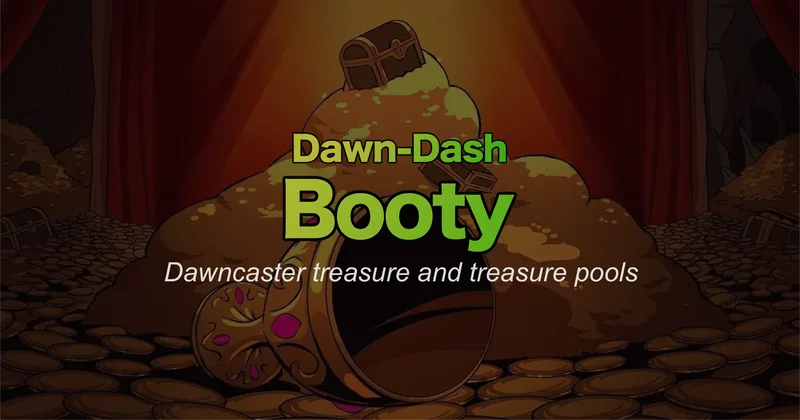
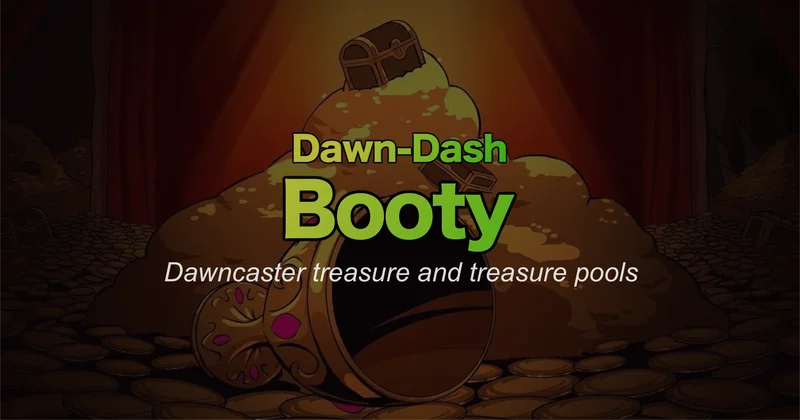
Script for generating landing-images. Also updated all images with vignette

diff --git a/scripts/generate-landing-images.js b/scripts/generate-landing-images.js
@@ -1,0 +1,148 @@
+// @ts-check
+/**
+ * Regenerates the landing-page thumbnails in `public/` from the OG images.
+ *
+ * Usage:
+ *   npm run generate-landing-images                 # regenerate all, overwriting in place
+ *   npm run generate-landing-images -- --dry-run    # report what would change, write nothing
+ *   npm run generate-landing-images -- cardex booty # only these tools
+ *   npm run generate-landing-images -- --quality 90
+ *
+ * Each `public/og-image-<tool>.png` (2400x1260) becomes `public/landing-<tool>.webp`
+ * (800x420) — the same 21:10 aspect ratio at a third of the size, so the resize is a
+ * clean downscale with no cropping. A source whose aspect ratio differs is reported
+ * and skipped rather than silently letterboxed or cropped off-centre.
+ *
+ * `og-image-dawndash.png` has no landing counterpart on purpose: the landing page shows
+ * the six tools, not itself. It is skipped unless named explicitly on the command line.
+ */
+
+const fs = require('fs')
+const path = require('path')
+
+const PUBLIC_DIR = path.join(__dirname, '../public')
+const TARGET_WIDTH = 800
+const TARGET_HEIGHT = 420
+const DEFAULT_QUALITY = 85
+
+/** The landing page shows the tools, not the site itself, so dawndash gets no thumbnail. */
+const SKIPPED_BY_DEFAULT = ['dawndash']
+
+/** Aspect ratios this far apart are treated as a mismatch rather than rounding noise. */
+const ASPECT_TOLERANCE = 0.01
+
+function loadSharp() {
+  try {
+    return require('sharp')
+  } catch {
+    throw new Error(
+      'sharp is not installed. Run `npm install --save-dev sharp` and try again.\n' +
+        '(It normally ships as a dependency of Next, but that is not something to rely on.)'
+    )
+  }
+}
+
+/** @param {string[]} argv */
+function parseArgs(argv) {
+  const tools = []
+  let dryRun = false
+  let quality = DEFAULT_QUALITY
+
+  for (let i = 0; i < argv.length; i++) {
+    const arg = argv[i]
+
+    if (arg === '--dry-run') dryRun = true
+    else if (arg === '--quality') {
+      quality = Number(argv[++i])
+      if (!Number.isFinite(quality) || quality < 1 || quality > 100) {
+        throw new Error(`--quality expects a number from 1 to 100, got "${argv[i]}"`)
+      }
+    } else if (arg.startsWith('--')) throw new Error(`Unknown flag: ${arg}`)
+    else tools.push(arg)
+  }
+
+  return { tools, dryRun, quality }
+}
+
+/** Every `og-image-<tool>.png` in public/, as tool names. */
+function findSourceTools() {
+  return fs
+    .readdirSync(PUBLIC_DIR)
+    .map((file) => /^og-image-(.+)\.png$/.exec(file))
+    .filter((match) => match !== null)
+    .map((match) => match[1])
+    .sort()
+}
+
+/** @param {number} bytes */
+function formatBytes(bytes) {
+  return `${(bytes / 1024).toFixed(1)}kB`
+}
+
+async function main() {
+  const sharp = loadSharp()
+  const { tools: requested, dryRun, quality } = parseArgs(process.argv.slice(2))
+
+  const available = findSourceTools()
+  const unknown = requested.filter((tool) => !available.includes(tool))
+  if (unknown.length > 0) {
+    throw new Error(
+      `No og-image-<tool>.png for: ${unknown.join(', ')}\nAvailable: ${available.join(', ')}`
+    )
+  }
+
+  const tools =
+    requested.length > 0
+      ? requested
+      : available.filter((tool) => !SKIPPED_BY_DEFAULT.includes(tool))
+
+  console.log(
+    `Generating ${TARGET_WIDTH}x${TARGET_HEIGHT} webp (quality ${quality}) for: ${tools.join(', ')}` +
+      (dryRun ? '  [dry run]' : '')
+  )
+
+  const skipped = []
+  let written = 0
+
+  for (const tool of tools) {
+    const source = path.join(PUBLIC_DIR, `og-image-${tool}.png`)
+    const target = path.join(PUBLIC_DIR, `landing-${tool}.webp`)
+
+    const { width, height } = await sharp(source).metadata()
+    const sourceAspect = width / height
+    const targetAspect = TARGET_WIDTH / TARGET_HEIGHT
+
+    if (Math.abs(sourceAspect - targetAspect) > ASPECT_TOLERANCE) {
+      skipped.push(
+        `${tool}: source is ${width}x${height} (${sourceAspect.toFixed(3)}), ` +
+          `expected ${targetAspect.toFixed(3)} — resize would crop or distort`
+      )
+      continue
+    }
+
+    const before = fs.existsSync(target) ? fs.statSync(target).size : 0
+    const buffer = await sharp(source)
+      .resize(TARGET_WIDTH, TARGET_HEIGHT, { fit: 'fill' })
+      .webp({ quality })
+      .toBuffer()
+
+    if (!dryRun) fs.writeFileSync(target, buffer)
+    written++
+
+    const change =
+      before > 0
+        ? `${formatBytes(before)} -> ${formatBytes(buffer.length)}`
+        : `new, ${formatBytes(buffer.length)}`
+    console.log(`  ${dryRun ? 'would write' : 'wrote'} landing-${tool}.webp  (${change})`)
+  }
+
+  for (const message of skipped) console.warn(`  SKIPPED ${message}`)
+
+  console.log(`\n${dryRun ? 'Would update' : 'Updated'} ${written} image(s).`)
+  if (skipped.length > 0) process.exitCode = 1
+}
+
+main().catch((error) => {
+  console.error(`\n${error.message}`)
+  process.exitCode = 1
+})

diff --git a/CLAUDE.md b/CLAUDE.md
@@ -61,6 +61,7 @@ operationally — the sequence they should be built in, not a topical grouping.
 - `npm run type-check` - Run TypeScript type checking
 - `npm run verify` - Run format:check, lint, type-check, and test together
 - `npm run icon-viewbox -- <IconName>` - Inspect an icon's viewBox fill and print candidate viewBoxes for making it look bigger/smaller (see `Icons/` under Shared Infrastructure)
+- `npm run generate-landing-images` - Regenerate every `public/landing-<tool>.webp` from its `public/og-image-<tool>.png`. **Run after changing any OG image** — the landing thumbnails are derived from them, not drawn separately (see Derived assets)
 - `npm run check-sw` - Fail if the built service worker precaches a URL that will 404. **Run after `npm run build` whenever `next.config.ts` or the PWA setup changes** — Workbox precaching is atomic, so one bad entry silently disables the entire worker including all runtime caching
 
 **`npm run verify` is the required check before any change (AI-generated changes included) is considered done.** For changes touching `pages/`, `next.config.ts`, or data hooks, also run `npm run build`.
@@ -142,9 +143,10 @@ Each feature directory has its own `CLAUDE.md` with architecture details and inv
 - **localStorage caching** with staleness detection: 10-minute TTL for speedrun leaderboard data (intentionally short — new runs arrive continuously), 24-hour TTL for codex card/talent data
 - **Stores are plain localStorage wrapper modules** (not subscription/Zustand stores): versioned cache keys are co-located with each store — `src/speedruns/utils/speedrunsStore.ts`, `src/codex/utils/codexCardsStore.ts`, `codexTalentsStore.ts`, `codexFilterStore.ts`
 
-### Data Synchronization (two ownership paths)
+### Data Synchronization (three ownership paths)
 - **Supabase Edge Functions** (`supabase/functions/`, Deno) own the **talents** data: `sync-talents` pulls from the Blightbane API into the Supabase `Talents` table; `talents-name` is a public read-only endpoint. `sync-cards` and the `Cards` table still exist but are **dormant** — Cardex stopped reading from Supabase and fetches cards live from Blightbane instead, so nothing consumes what `sync-cards` writes. Deploy with `npx supabase functions deploy <name>`. The root `deno.json` exists **solely** for these edge functions.
 - **Local Node scripts** (`scripts/`) own the **events and artwork** data: `sync-events.js` runs the event pipeline. By default it is **parse-only** — it parses `scripts/data/events.json` (produced by an **external event-extraction tool** and pasted in; nothing in this repo writes it) into `src/codex/data/event-trees.json`, and fails fast if that file is missing. `npm run sync-events -- --from-dump` (the `--` is required, or npm eats the flag and silently runs the default path) runs the legacy in-repo path instead (fetch the Blightbane bundle → extract into `scripts/data/events-from-dump.json` → parse that), which never overwrites the external tool's `events.json`. Both input files are gitignored and share the same shape, so the parse step is agnostic about the source; see `scripts/parse/README.md`. `sync-treasures.js` splits `scripts/data/treasures.json` into `src/codex/data/treasure-cards.json` and `treasure-pools.json` — same ownership story as `events.json`: the input comes from an **external treasure-extraction tool** and is pasted in manually (gitignored; the script fails fast without it). `npm run sync-all` runs `sync-treasures`, `sync-events` and the talents preflight in sequence. Also: `fetch-card-artwork-mapping.js` writes `src/shared/data/card-artwork.json`; `generate-sitemap.js` builds `public/sitemap.xml` from the event data (tool URLs are hardcoded in it)
+- **Derived assets**: `public/landing-<tool>.webp` is **generated from `public/og-image-<tool>.png`**, not authored separately — `npm run generate-landing-images` downscales each 2400x1260 OG image to the 800x420 thumbnail the landing page and tool registry point at. So updating an OG image without rerunning it leaves the landing card showing the old artwork. The script requires the source to share the OG aspect ratio and skips (non-zero exit) rather than cropping if it does not, and `og-image-dawndash.png` is skipped by default since the landing page shows the six tools, not itself. It needs `sharp`, which is a direct devDependency for this reason — it used to be pulled in only transitively via Next
 - **Speedrun data** is not synced — it is fetched live from the Blightbane API at runtime
 
 ### PWA & Performance
